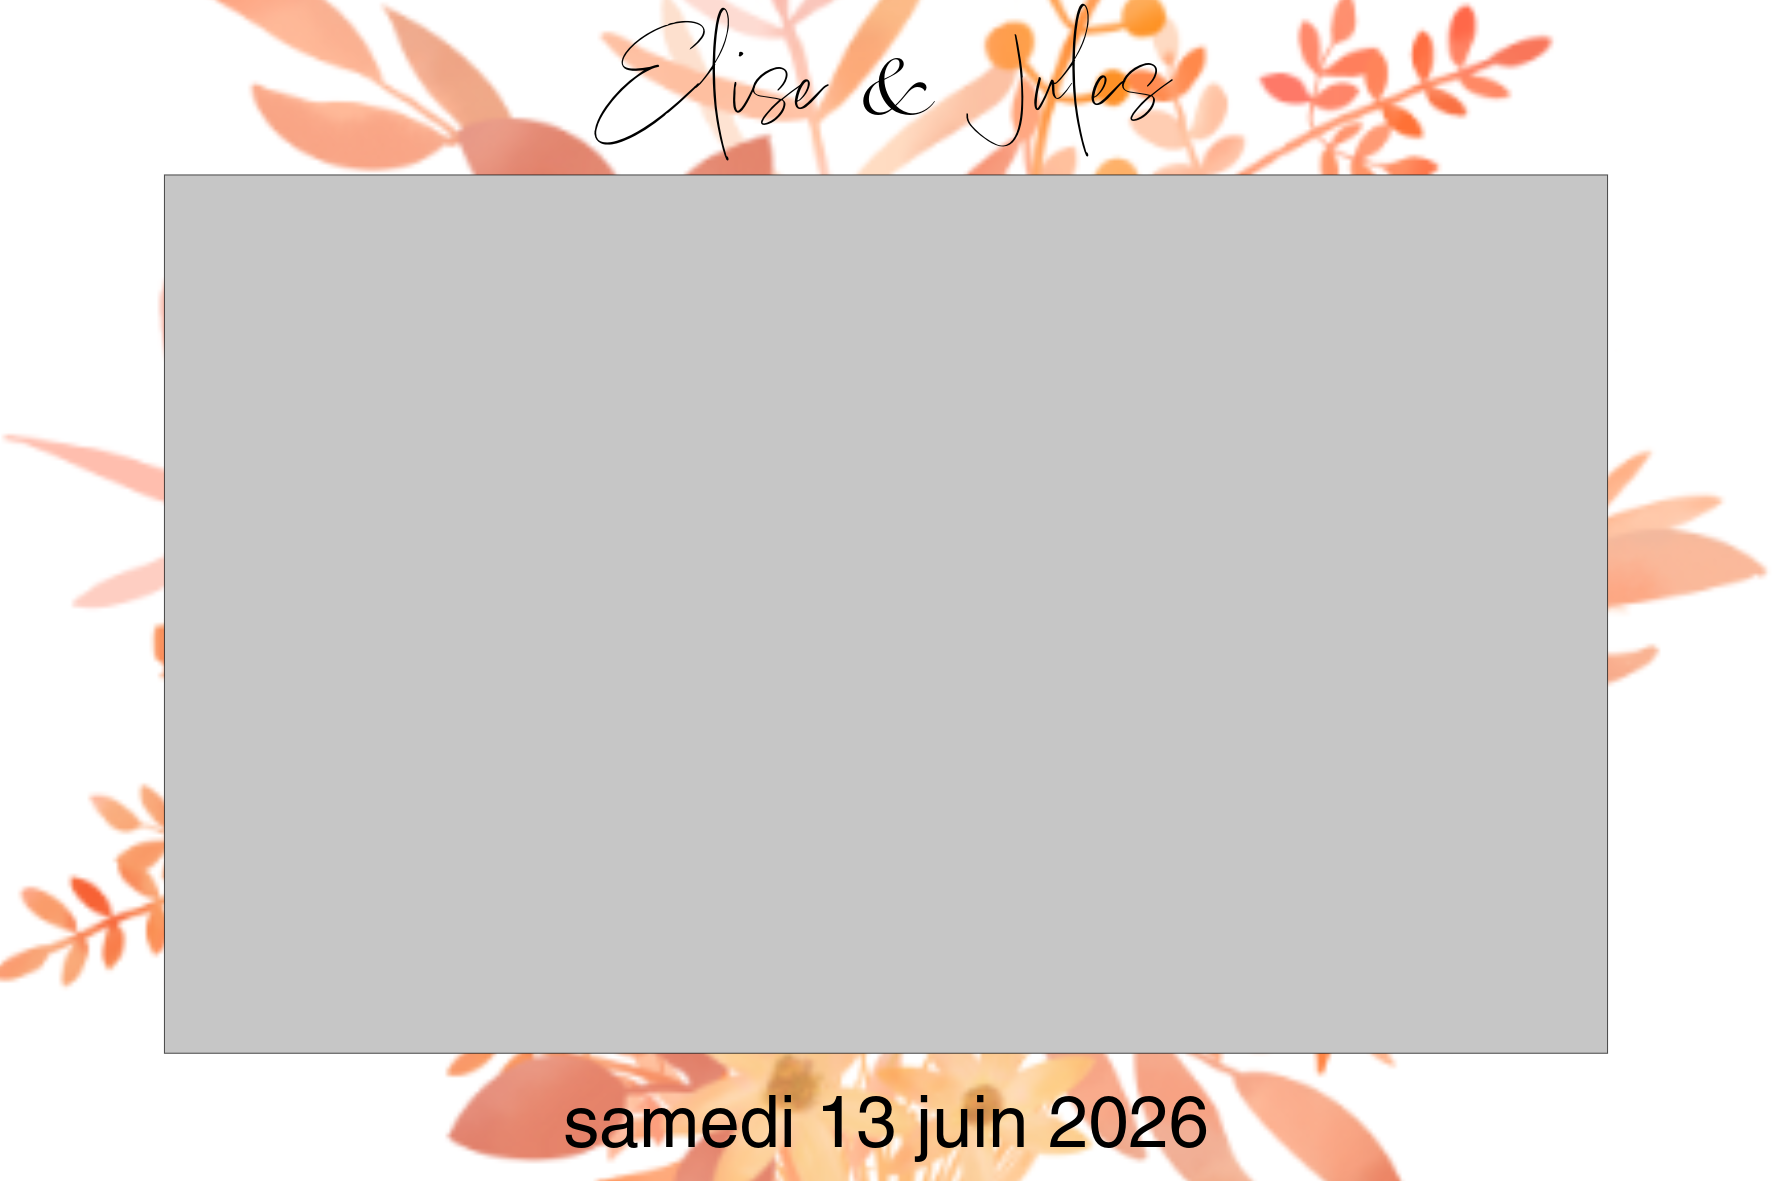
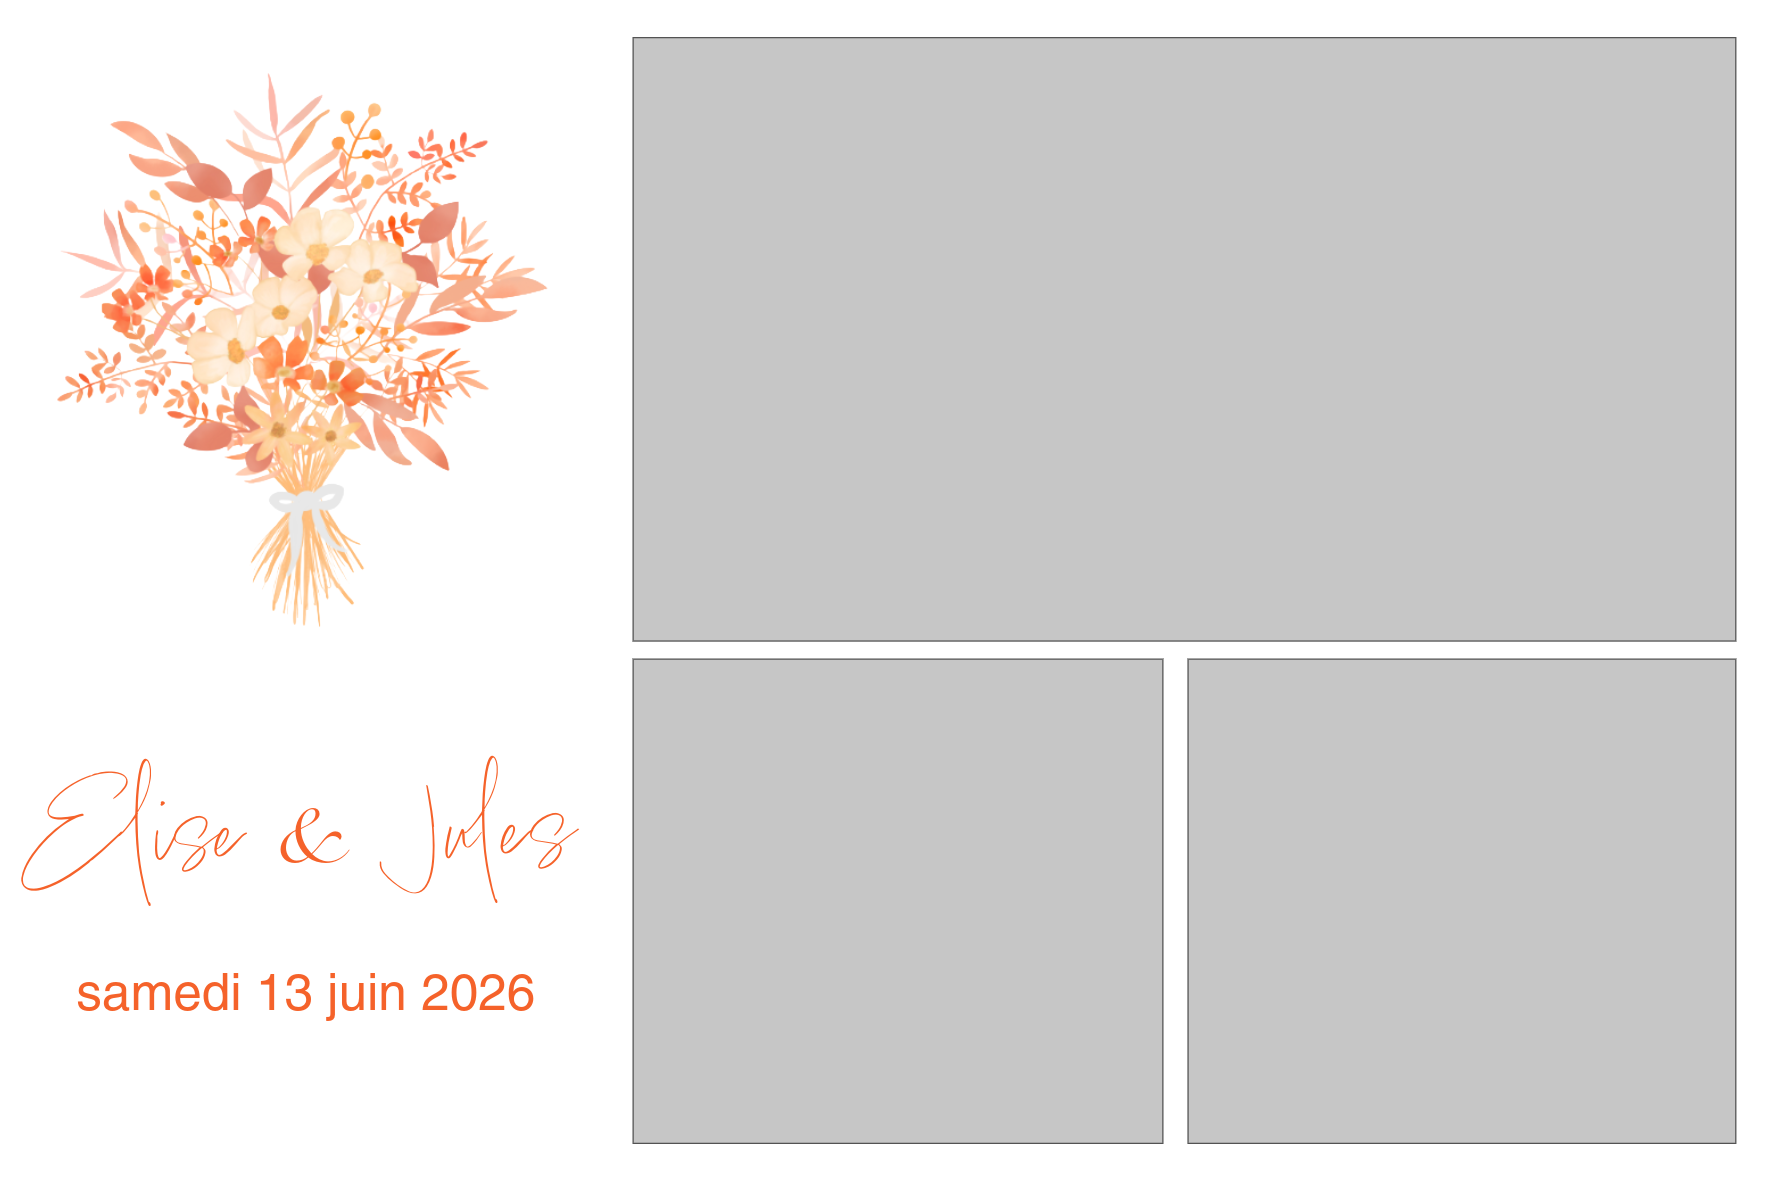
Ajustements de mise en page suite aux retours
- Notre histoire : photo à droite du texte, 4 bulles alignées sur une
  seule rangée en dessous
- Pourquoi nous choisir : 03 mentionne l'appareil photo Canon EOS 4000D,
  04 devient "Une prestation clé en main" (conception → installation →
  démontage, zéro stress pour les mariés)
- Tirages supplémentaires : prix simplifié à "49€" ; ajout d'une note
  sous les 3 options sur les frais de déplacement (0,50€/km au-delà de 20km)
- Exemples de modèles : passé en carrousel, remplacement du visuel
  Elise & Jules par la nouvelle version fournie
- Calendrier de réservation agrandi (jours et marges plus grands) pour
  mieux remplir la carte
- Section contact : les deux colonnes sont maintenant centrées
  verticalement l'une par rapport à l'autre ; phrase "Basés à Lyon..." retirée
- Logo agrandi dans le header pour rester lisible (format d'origine
  préservé, aucune déformation)

diff --git a/index.html b/index.html
@@ -61,16 +61,18 @@
 
 <!-- ===== NOTRE HISTOIRE ===== -->
 <section class="section" id="histoire">
-  <div class="container histoire-grid">
-    <div class="histoire-text">
-      <p class="eyebrow">Notre histoire</p>
-      <h2>Une histoire de souvenirs, <span class="gold-text">et d'amour</span></h2>
-      <p>Booth In Lyon est né en novembre 2025, porté par Charlotte et Bruno. Notre mission : garder une trace des moments qui comptent vraiment — ceux où l'on rit un peu trop fort, où l'on se déguise sans complexe, où l'on se serre les uns contre les autres pour la photo.</p>
-      <p>Spontané, fun, créateur de souvenirs réels : c'est l'expérience que nous voulons offrir à chacun de vos invités, avec la bienveillance et l'attention d'une équipe qui aime sincèrement ce qu'elle fait.</p>
+  <div class="container">
+    <div class="histoire-top">
+      <div class="histoire-text">
+        <p class="eyebrow">Notre histoire</p>
+        <h2>Une histoire de souvenirs, <span class="gold-text">et d'amour</span></h2>
+        <p>Booth In Lyon est né en novembre 2025, porté par Charlotte et Bruno. Notre mission : garder une trace des moments qui comptent vraiment — ceux où l'on rit un peu trop fort, où l'on se déguise sans complexe, où l'on se serre les uns contre les autres pour la photo.</p>
+        <p>Spontané, fun, créateur de souvenirs réels : c'est l'expérience que nous voulons offrir à chacun de vos invités, avec la bienveillance et l'attention d'une équipe qui aime sincèrement ce qu'elle fait.</p>
+        <div class="signature">— Charlotte &amp; Bruno</div>
+      </div>
       <div class="histoire-photo">
         <img src="assets/img/histoire-charlotte-bruno.png" alt="Charlotte et Bruno, fondateurs de Booth In Lyon">
       </div>
-      <div class="signature">— Charlotte &amp; Bruno</div>
     </div>
     <div class="histoire-values">
       <div class="value-card">
@@ -115,13 +117,13 @@
       </div>
       <div class="pourquoi-card">
         <span class="pourquoi-number">03</span>
-        <h3>Éclairage professionnel</h3>
-        <p>Panneau LED NEEWER 660 inclus pour des photos lumineuses en toute circonstance.</p>
+        <h3>Matériel professionnel</h3>
+        <p>Panneau LED NEEWER 660 et appareil photo professionnel Canon EOS 4000D inclus, pour des photos lumineuses et un rendu pro en toute circonstance.</p>
       </div>
       <div class="pourquoi-card">
         <span class="pourquoi-number">04</span>
-        <h3>Service jusqu'au bout de la nuit</h3>
-        <p>Disponible jusqu'au lendemain, pour ne rater aucun souvenir de la soirée.</p>
+        <h3>Une prestation clé en main</h3>
+        <p>De la conception du visuel jusqu'à l'installation, au montage et au démontage le jour J, on gère tout de A à Z pour que les mariés n'aient aucun stress à se soucier.</p>
       </div>
     </div>
   </div>
@@ -185,7 +187,7 @@
         <div class="option-card-body">
           <h3>Tirages supplémentaires</h3>
           <p>Plus de tirages pour n'oublier personne. Au-delà de 120 invités, nous recommandons d'ajouter une recharge supplémentaire à votre formule de base.</p>
-          <span class="option-price">49€ pour 150 tirages supplémentaires</span>
+          <span class="option-price">49€</span>
         </div>
       </div>
       <div class="option-card">
@@ -206,6 +208,7 @@
         </div>
       </div>
     </div>
+    <p class="options-note">Au-delà de 20 km autour de Lyon, un déplacement est facturé 0,50€/km.</p>
   </div>
 </section>
 
@@ -215,34 +218,38 @@
     <p class="eyebrow">Exemples de modèles</p>
     <h2>Des cadres <span class="gold-text">100% personnalisés</span></h2>
     <p class="section-intro">Un aperçu de quelques créations réalisées pour nos clients : prénoms, date, couleurs et ambiance de votre événement — tout est adapté sur-mesure.</p>
-    <div class="modeles-grid">
-      <div class="modele-card">
-        <img src="assets/img/modeles/esther-julien.png" alt="Modèle de cadre photobooth personnalisé pour un mariage" loading="lazy">
+    <div class="modeles-carousel">
+      <button type="button" class="carousel-arrow carousel-arrow-prev" id="modeles-prev" aria-label="Modèle précédent">‹</button>
+      <div class="modeles-track" id="modeles-track">
+        <div class="modele-card">
+          <img src="assets/img/modeles/esther-julien.png" alt="Modèle de cadre photobooth personnalisé pour un mariage" loading="lazy">
+        </div>
+        <div class="modele-card">
+          <img src="assets/img/modeles/elise-jules.png" alt="Modèle de cadre photobooth personnalisé pour un mariage" loading="lazy">
+        </div>
+        <div class="modele-card">
+          <img src="assets/img/modeles/jouhaiz-zied.png" alt="Modèle de cadre photobooth personnalisé pour un mariage" loading="lazy">
+        </div>
+        <div class="modele-card">
+          <img src="assets/img/modeles/cathy-denis.png" alt="Modèle de cadre photobooth personnalisé pour un mariage" loading="lazy">
+        </div>
+        <div class="modele-card">
+          <img src="assets/img/modeles/marin-louna.png" alt="Modèle de cadre photobooth personnalisé pour un anniversaire" loading="lazy">
+        </div>
+        <div class="modele-card">
+          <img src="assets/img/modeles/laura-marwane.png" alt="Modèle de cadre photobooth personnalisé pour un mariage" loading="lazy">
+        </div>
+        <div class="modele-card">
+          <img src="assets/img/modeles/yoann-alice.png" alt="Modèle de cadre photobooth personnalisé sur le thème far west" loading="lazy">
+        </div>
+        <div class="modele-card">
+          <img src="assets/img/modeles/axel-30-ans.png" alt="Modèle de cadre photobooth personnalisé sur le thème Star Wars" loading="lazy">
+        </div>
+        <div class="modele-card">
+          <img src="assets/img/modeles/happy-new-year.png" alt="Modèle de cadre photobooth personnalisé pour le nouvel an" loading="lazy">
+        </div>
       </div>
-      <div class="modele-card">
-        <img src="assets/img/modeles/elise-jules.png" alt="Modèle de cadre photobooth personnalisé pour un mariage" loading="lazy">
-      </div>
-      <div class="modele-card">
-        <img src="assets/img/modeles/jouhaiz-zied.png" alt="Modèle de cadre photobooth personnalisé pour un mariage" loading="lazy">
-      </div>
-      <div class="modele-card">
-        <img src="assets/img/modeles/cathy-denis.png" alt="Modèle de cadre photobooth personnalisé pour un mariage" loading="lazy">
-      </div>
-      <div class="modele-card">
-        <img src="assets/img/modeles/marin-louna.png" alt="Modèle de cadre photobooth personnalisé pour un anniversaire" loading="lazy">
-      </div>
-      <div class="modele-card">
-        <img src="assets/img/modeles/laura-marwane.png" alt="Modèle de cadre photobooth personnalisé pour un mariage" loading="lazy">
-      </div>
-      <div class="modele-card">
-        <img src="assets/img/modeles/yoann-alice.png" alt="Modèle de cadre photobooth personnalisé sur le thème far west" loading="lazy">
-      </div>
-      <div class="modele-card">
-        <img src="assets/img/modeles/axel-30-ans.png" alt="Modèle de cadre photobooth personnalisé sur le thème Star Wars" loading="lazy">
-      </div>
-      <div class="modele-card">
-        <img src="assets/img/modeles/happy-new-year.png" alt="Modèle de cadre photobooth personnalisé pour le nouvel an" loading="lazy">
-      </div>
+      <button type="button" class="carousel-arrow carousel-arrow-next" id="modeles-next" aria-label="Modèle suivant">›</button>
     </div>
   </div>
 </section>
@@ -381,7 +388,6 @@
           </span>
         </li>
       </ul>
-      <p class="contact-zone">Basés à Lyon — intervention dans toute la région lyonnaise.</p>
     </div>
 
     <form id="contact-form" class="contact-form" novalidate>

diff --git a/assets/css/style.css b/assets/css/style.css
@@ -109,7 +109,7 @@ p { margin: 0 0 1em; }
   box-shadow: 0 10px 30px -15px rgba(0,0,0,0.4);
 }
 .header-inner { display: flex; align-items: center; gap: 24px; }
-.brand img { height: 46px; width: auto; border-radius: 8px; }
+.brand img { height: 62px; width: auto; border-radius: 8px; }
 .main-nav { display: flex; gap: 28px; margin-left: auto; }
 .main-nav a {
   color: var(--white);
@@ -202,24 +202,23 @@ p { margin: 0 0 1em; }
 /* ==========================================================================
    Histoire
    ========================================================================== */
-.histoire-grid {
+.histoire-top {
   display: grid;
   grid-template-columns: 1.1fr 1fr;
   gap: 64px;
-  align-items: start;
+  align-items: center;
+  margin-bottom: 48px;
 }
 .histoire-text p { color: var(--text-muted); font-size: 1.05rem; }
 .histoire-photo {
-  margin: 24px 0;
   border-radius: var(--radius);
   overflow: hidden;
-  max-width: 360px;
   box-shadow: var(--shadow);
   border: 1px solid rgba(198,161,91,0.25);
 }
 .histoire-photo img { width: 100%; height: 100%; object-fit: cover; aspect-ratio: 4 / 5; }
 .signature { font-family: var(--font-serif); font-style: italic; font-size: 1.2rem; color: var(--gold-dark); margin-top: 12px; }
-.histoire-values { display: grid; grid-template-columns: 1fr 1fr; gap: 20px; }
+.histoire-values { display: grid; grid-template-columns: repeat(4, 1fr); gap: 20px; }
 .value-card {
   background: var(--cream);
   border-radius: var(--radius);
@@ -355,17 +354,25 @@ p { margin: 0 0 1em; }
   font-weight: 700;
   color: var(--gold-light);
 }
+.options-note { margin-top: 24px; text-align: center; color: var(--text-muted); font-size: 0.9rem; }
 
 /* ==========================================================================
    Exemples de modèles
    ========================================================================== */
-.modeles-grid {
-  display: grid;
-  grid-template-columns: repeat(3, 1fr);
+.modeles-carousel { position: relative; display: flex; align-items: center; gap: 12px; margin-top: 48px; }
+.modeles-track {
+  display: flex;
   gap: 24px;
-  margin-top: 48px;
+  overflow-x: auto;
+  scroll-snap-type: x mandatory;
+  scroll-behavior: smooth;
+  padding: 4px 4px 12px;
+  scrollbar-width: none;
 }
+.modeles-track::-webkit-scrollbar { display: none; }
 .modele-card {
+  flex: 0 0 300px;
+  scroll-snap-align: start;
   border-radius: var(--radius);
   overflow: hidden;
   box-shadow: var(--shadow);
@@ -494,19 +501,20 @@ p { margin: 0 0 1em; }
   background: var(--white);
   border: 1.5px solid rgba(198,161,91,0.5);
   border-radius: 12px;
-  padding: 16px 12px 4px;
+  padding: 28px 20px 24px;
   box-shadow: 0 16px 32px -20px rgba(13,12,11,0.25);
 }
-.flatpickr-months { margin-bottom: 6px; }
-.flatpickr-current-month { font-size: 1.05rem; }
+.flatpickr-months { margin-bottom: 16px; }
+.flatpickr-current-month { font-size: 1.3rem; }
 .flatpickr-current-month .cur-month, .flatpickr-current-month input.cur-year { font-weight: 600; color: var(--text); }
-span.flatpickr-weekday { font-size: 0.72rem; font-weight: 600; color: var(--gold-dark); text-transform: uppercase; }
+span.flatpickr-weekday { font-size: 0.8rem; font-weight: 600; color: var(--gold-dark); text-transform: uppercase; }
 .flatpickr-days, .dayContainer { width: 100% !important; max-width: 100%; }
 .flatpickr-day {
-  border-radius: 8px;
-  font-size: 0.95rem;
-  height: 42px;
-  line-height: 40px;
+  border-radius: 10px;
+  font-size: 1.15rem;
+  height: 58px;
+  line-height: 56px;
+  margin: 2px 0;
 }
 .flatpickr-day.day-unavailable {
   text-decoration: line-through;
@@ -568,7 +576,9 @@ input:focus, select:focus, textarea:focus { outline: 2px solid var(--gold); }
 /* ==========================================================================
    Contact
    ========================================================================== */
-.contact-grid { display: grid; grid-template-columns: 1fr 1fr; gap: 64px; align-items: start; }
+.contact-grid { display: grid; grid-template-columns: 1fr 1fr; gap: 64px; align-items: stretch; }
+.contact-info { display: flex; flex-direction: column; justify-content: center; }
+.contact-grid .contact-form { justify-content: center; }
 .contact-lead { color: rgba(255,255,255,0.65); font-weight: 300; }
 .contact-list { display: flex; flex-direction: column; gap: 4px; margin: 32px 0; }
 .contact-list li {
@@ -640,8 +650,9 @@ input:focus, select:focus, textarea:focus { outline: 2px solid var(--gold); }
    Responsive
    ========================================================================== */
 @media (max-width: 960px) {
-  .histoire-grid, .booking-grid, .contact-grid { grid-template-columns: 1fr; }
-  .pourquoi-grid, .pricing-grid, .options-grid, .modeles-grid { grid-template-columns: repeat(2, 1fr); }
+  .histoire-top, .booking-grid, .contact-grid { grid-template-columns: 1fr; }
+  .histoire-photo { max-width: 420px; margin: 0 auto; }
+  .pourquoi-grid, .pricing-grid, .options-grid, .histoire-values { grid-template-columns: repeat(2, 1fr); }
   .pricing-card-featured { transform: none; }
   .hero-content { grid-template-columns: 1fr; }
   .hero-visual { order: -1; }
@@ -669,7 +680,7 @@ input:focus, select:focus, textarea:focus { outline: 2px solid var(--gold); }
   .main-nav.open { transform: translateX(0); }
   .nav-toggle { display: flex; }
   .nav-cta { display: none; }
-  .histoire-values, .pourquoi-grid, .pricing-grid, .options-grid, .modeles-grid { grid-template-columns: 1fr; }
+  .histoire-values, .pourquoi-grid, .pricing-grid, .options-grid { grid-template-columns: 1fr; }
   .form-row-split { flex-direction: column; }
   .section { padding: 70px 0; }
   .hero-stats { gap: 24px; flex-wrap: wrap; }

diff --git a/assets/js/main.js b/assets/js/main.js
@@ -45,4 +45,18 @@
     prevBtn.addEventListener("click", () => scrollByCard(-1));
     nextBtn.addEventListener("click", () => scrollByCard(1));
   }
+
+  // Modèles carousel
+  const modelesTrack = document.getElementById("modeles-track");
+  const modelesPrev = document.getElementById("modeles-prev");
+  const modelesNext = document.getElementById("modeles-next");
+  if (modelesTrack && modelesPrev && modelesNext) {
+    const scrollModeles = (dir) => {
+      const card = modelesTrack.querySelector(".modele-card");
+      const amount = card ? card.getBoundingClientRect().width + 24 : 300;
+      modelesTrack.scrollBy({ left: dir * amount, behavior: "smooth" });
+    };
+    modelesPrev.addEventListener("click", () => scrollModeles(-1));
+    modelesNext.addEventListener("click", () => scrollModeles(1));
+  }
 })();
